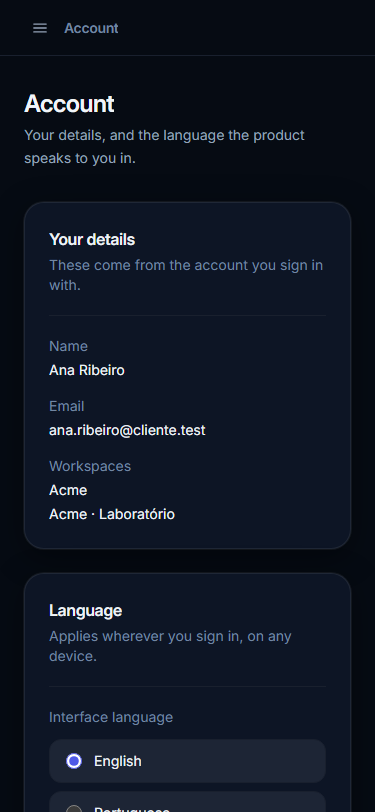
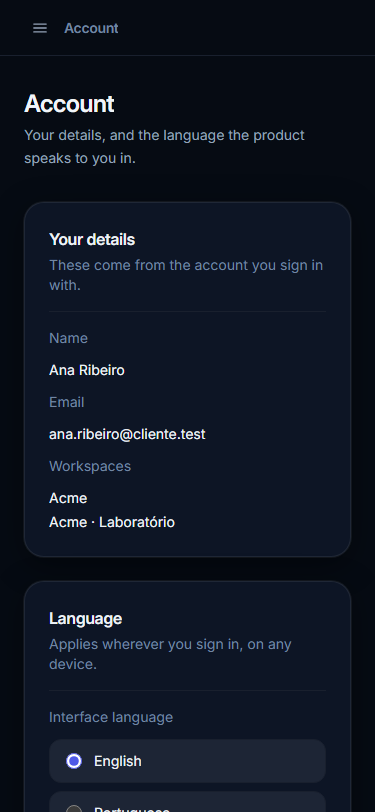
M41: a distincao sai da prosa e entra no CONTROLE
Revisao das capturas, e o achado foi o que mais importava: as telas do estado
PADRAO e da ESCOLHA SALVA eram pixel-identicas exceto por uma linha de texto
secundario -- mesmo tamanho, mesma cor, mesma posicao. A distincao que a BD11
inteira existe para preservar estava carregada pelo elemento de MENOR enfase da
tela, e usuario escaneia em vez de ler.

Duas correcoes:

* **marca `Saved` na opcao persistida.** Ela aparece no proprio controle e some
  por completo quando nao ha escolha salva. Agora os dois estados diferem de
  relance, e nao so para quem le a frase;

* **cartao de identidade compacto** (grid rotulo/valor em vez de ritmo de
  formulario). Tres campos de leitura gastavam ~320px e empurravam o botao
  primario para BAIXO DA DOBRA em 1280x800. Ele subiu.

Score de heuristicas: **9,2/10**. Os 0,8 que faltam estao nomeados e sao
severidade 1 -- rotulagem redundante (`Language` + `Interface language`) e
confirmacao de sucesso discreta. Nao mexidos de proposito: trocar polish por
churn no fechamento nao melhora a tela.

Vitest 1528/1528 · Playwright 190/190 · 7 typechecks com 0 erro · lint delta
zero · 12 capturas regeneradas, todas com prova de idioma por conteudo.

diff --git a/src/features/settings/SettingsPage.tsx b/src/features/settings/SettingsPage.tsx
@@ -39,7 +39,7 @@ function Section({
 }) {
   return (
     <section className="card-base p-6">
-      <div className="mb-5 border-b border-border pb-5">
+      <div className="mb-4 border-b border-border pb-4">
         <h2 className="text-base font-semibold text-foreground">{title}</h2>
         {description && <p className="mt-1 text-sm text-muted-foreground">{description}</p>}
       </div>
@@ -50,10 +50,10 @@ function Section({
 
 function Campo({ rotulo, valor }: { rotulo: string; valor: string }) {
   return (
-    <div>
+    <>
       <dt className="text-sm text-muted-foreground">{rotulo}</dt>
-      <dd className="mt-1 text-sm text-foreground">{valor}</dd>
-    </div>
+      <dd className="text-sm text-foreground sm:mt-0">{valor}</dd>
+    </>
   );
 }
 
@@ -84,15 +84,15 @@ export function SettingsPage() {
                 {t("common.loading")}
               </p>
             ) : conta.data ? (
-              <dl className="space-y-4">
+              <dl className="grid gap-x-8 gap-y-3 sm:grid-cols-[10rem_1fr]">
                 <Campo rotulo={t("account.name")} valor={conta.data.user.name} />
                 <Campo rotulo={t("account.email")} valor={conta.data.user.email} />
                 {/* Lista, e não texto unido por separador: um nome de workspace pode CONTER o
                     separador — a massa tem "Acme · Laboratório" —, e aí "Acme · Acme · Laboratório"
                     não deixa ver onde um termina e o outro começa. Achado da revisão da captura. */}
-                <div>
+                <>
                   <dt className="text-sm text-muted-foreground">{t("account.workspaces")}</dt>
-                  <dd className="mt-1 text-sm text-foreground">
+                  <dd className="text-sm text-foreground">
                     {conta.data.workspaces.length ? (
                       <ul className="space-y-1">
                         {conta.data.workspaces.map((w) => (
@@ -103,7 +103,7 @@ export function SettingsPage() {
                       t("account.noWorkspaces")
                     )}
                   </dd>
-                </div>
+                </>
               </dl>
             ) : (
               <p className="text-sm text-destructive" role="alert">

diff --git a/src/features/account/SecaoDeIdioma.tsx b/src/features/account/SecaoDeIdioma.tsx
@@ -133,7 +133,20 @@ export function SecaoDeIdioma() {
                 aria-describedby={descricaoId}
                 className="h-4 w-4 accent-[hsl(var(--primary))]"
               />
-              <span>{idioma === "pt" ? t("account.portuguese") : t("account.english")}</span>
+              <span className="flex-1">
+                {idioma === "pt" ? t("account.portuguese") : t("account.english")}
+              </span>
+              {/* A marca da escolha PERSISTIDA, na própria opção.
+                  Achado da revisão da captura: sem ela, o estado "usando o padrão" e o estado
+                  "escolhi inglês" produziam telas pixel-idênticas exceto por uma linha de texto
+                  secundário — o elemento de MENOR ênfase carregando a distinção que a capacidade
+                  inteira existe para preservar. Aqui ela aparece no controle, e some por completo
+                  quando não há escolha salva. */}
+              {estado.tipo === "salva" && estado.escolhido === idioma && (
+                <span className="rounded-md bg-muted px-2 py-0.5 text-xs font-medium text-muted-foreground">
+                  {t("account.savedTag")}
+                </span>
+              )}
             </label>
           ))}
         </div>
